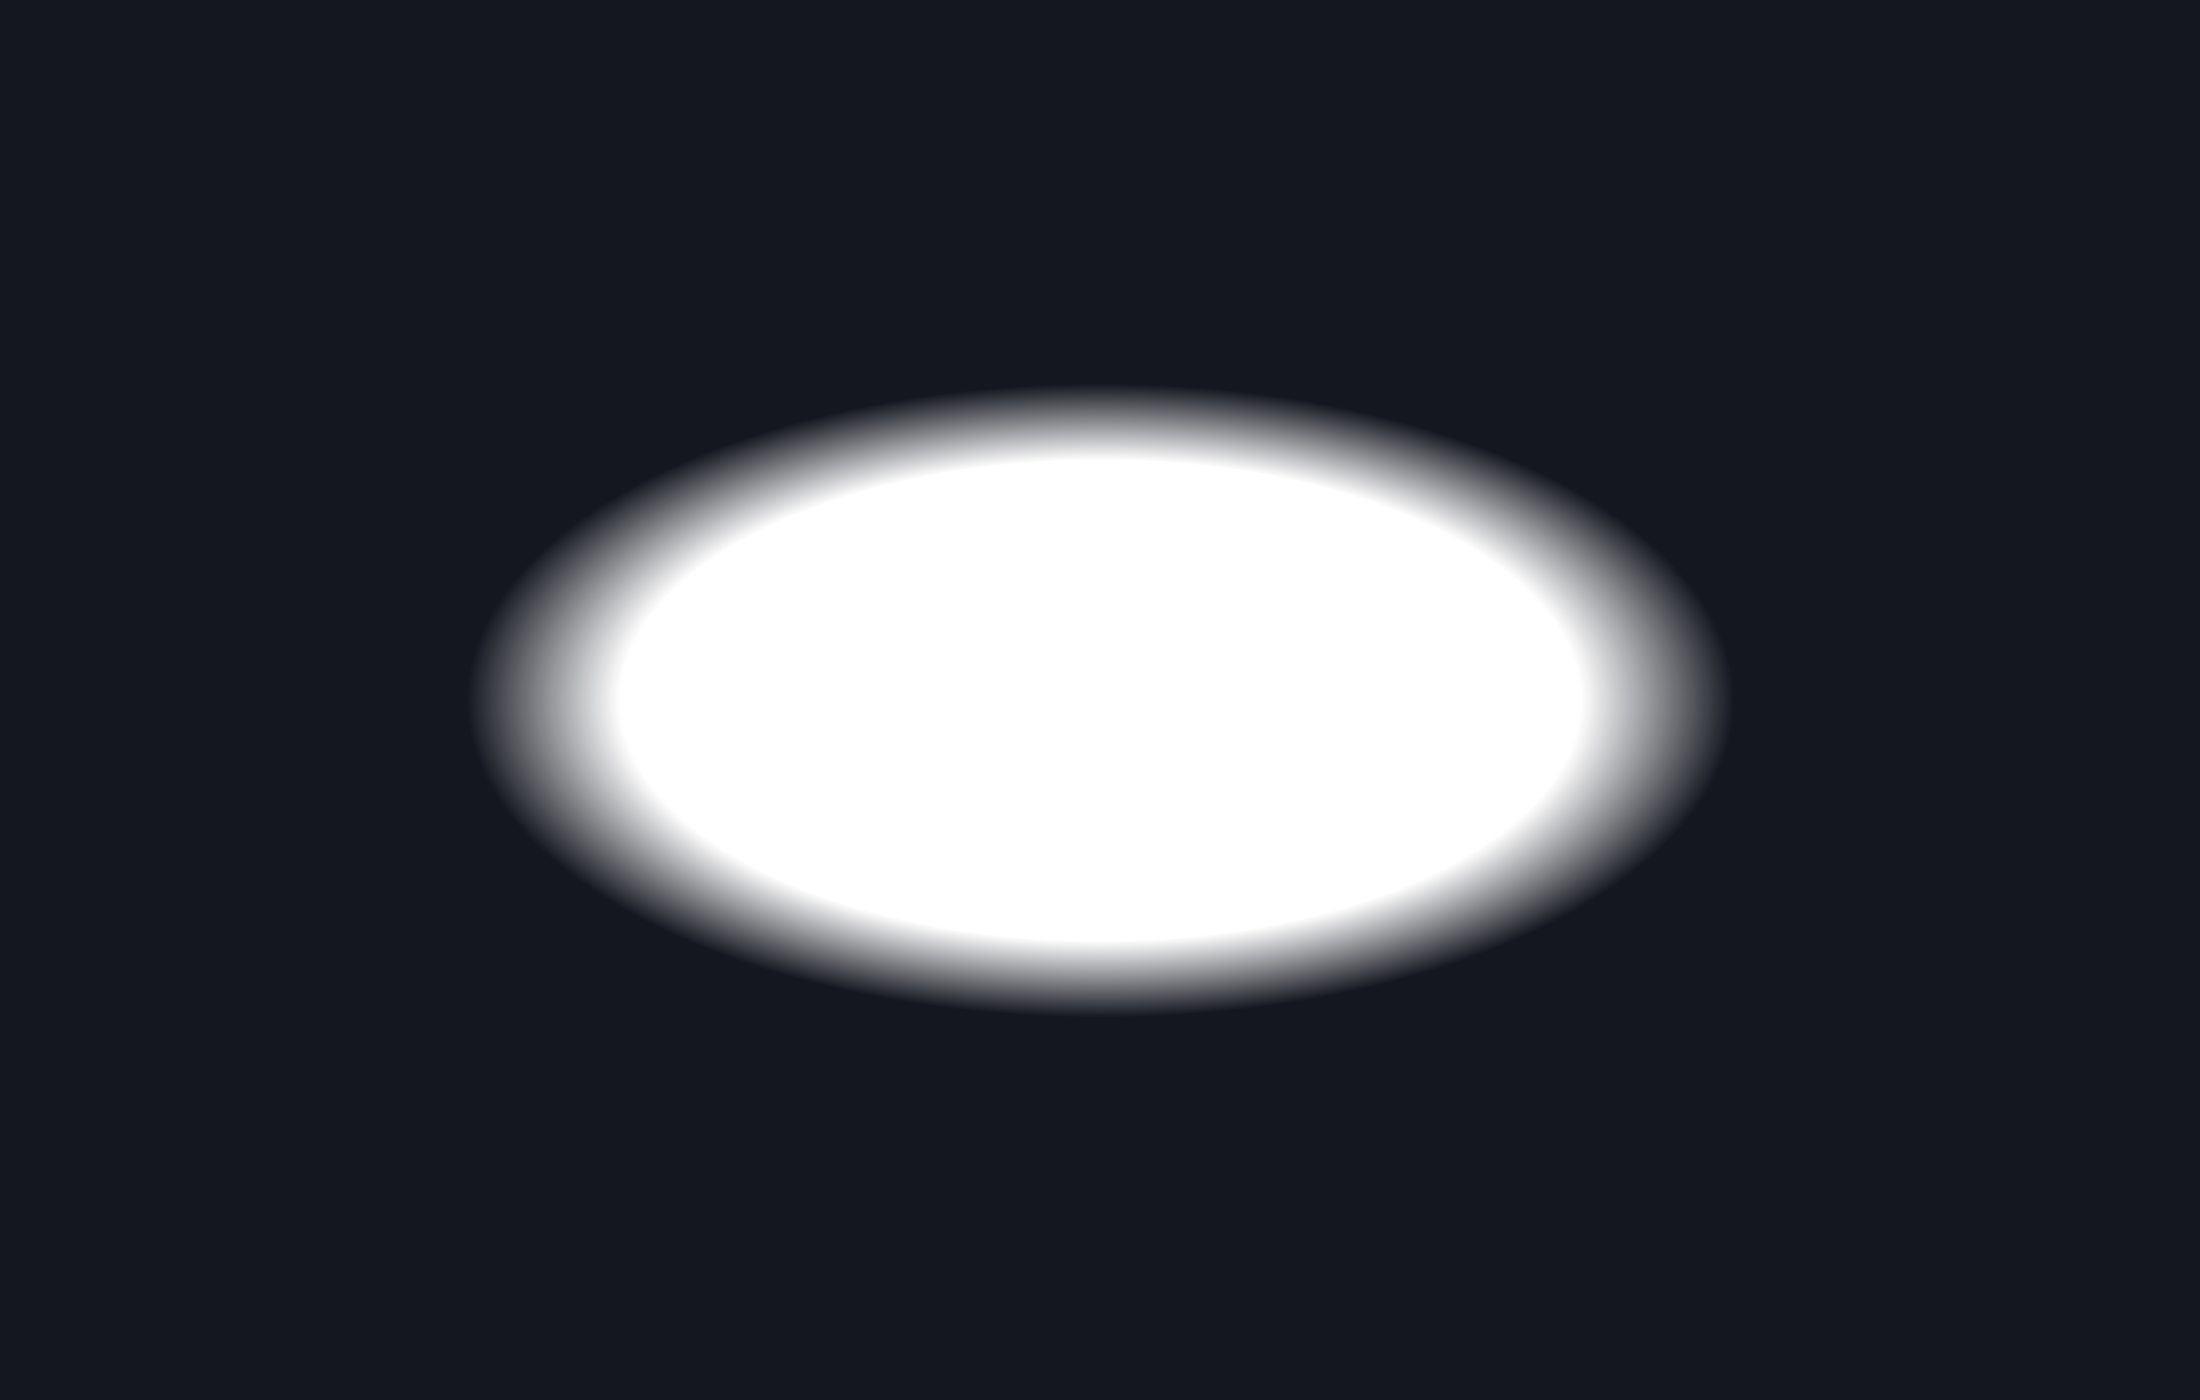
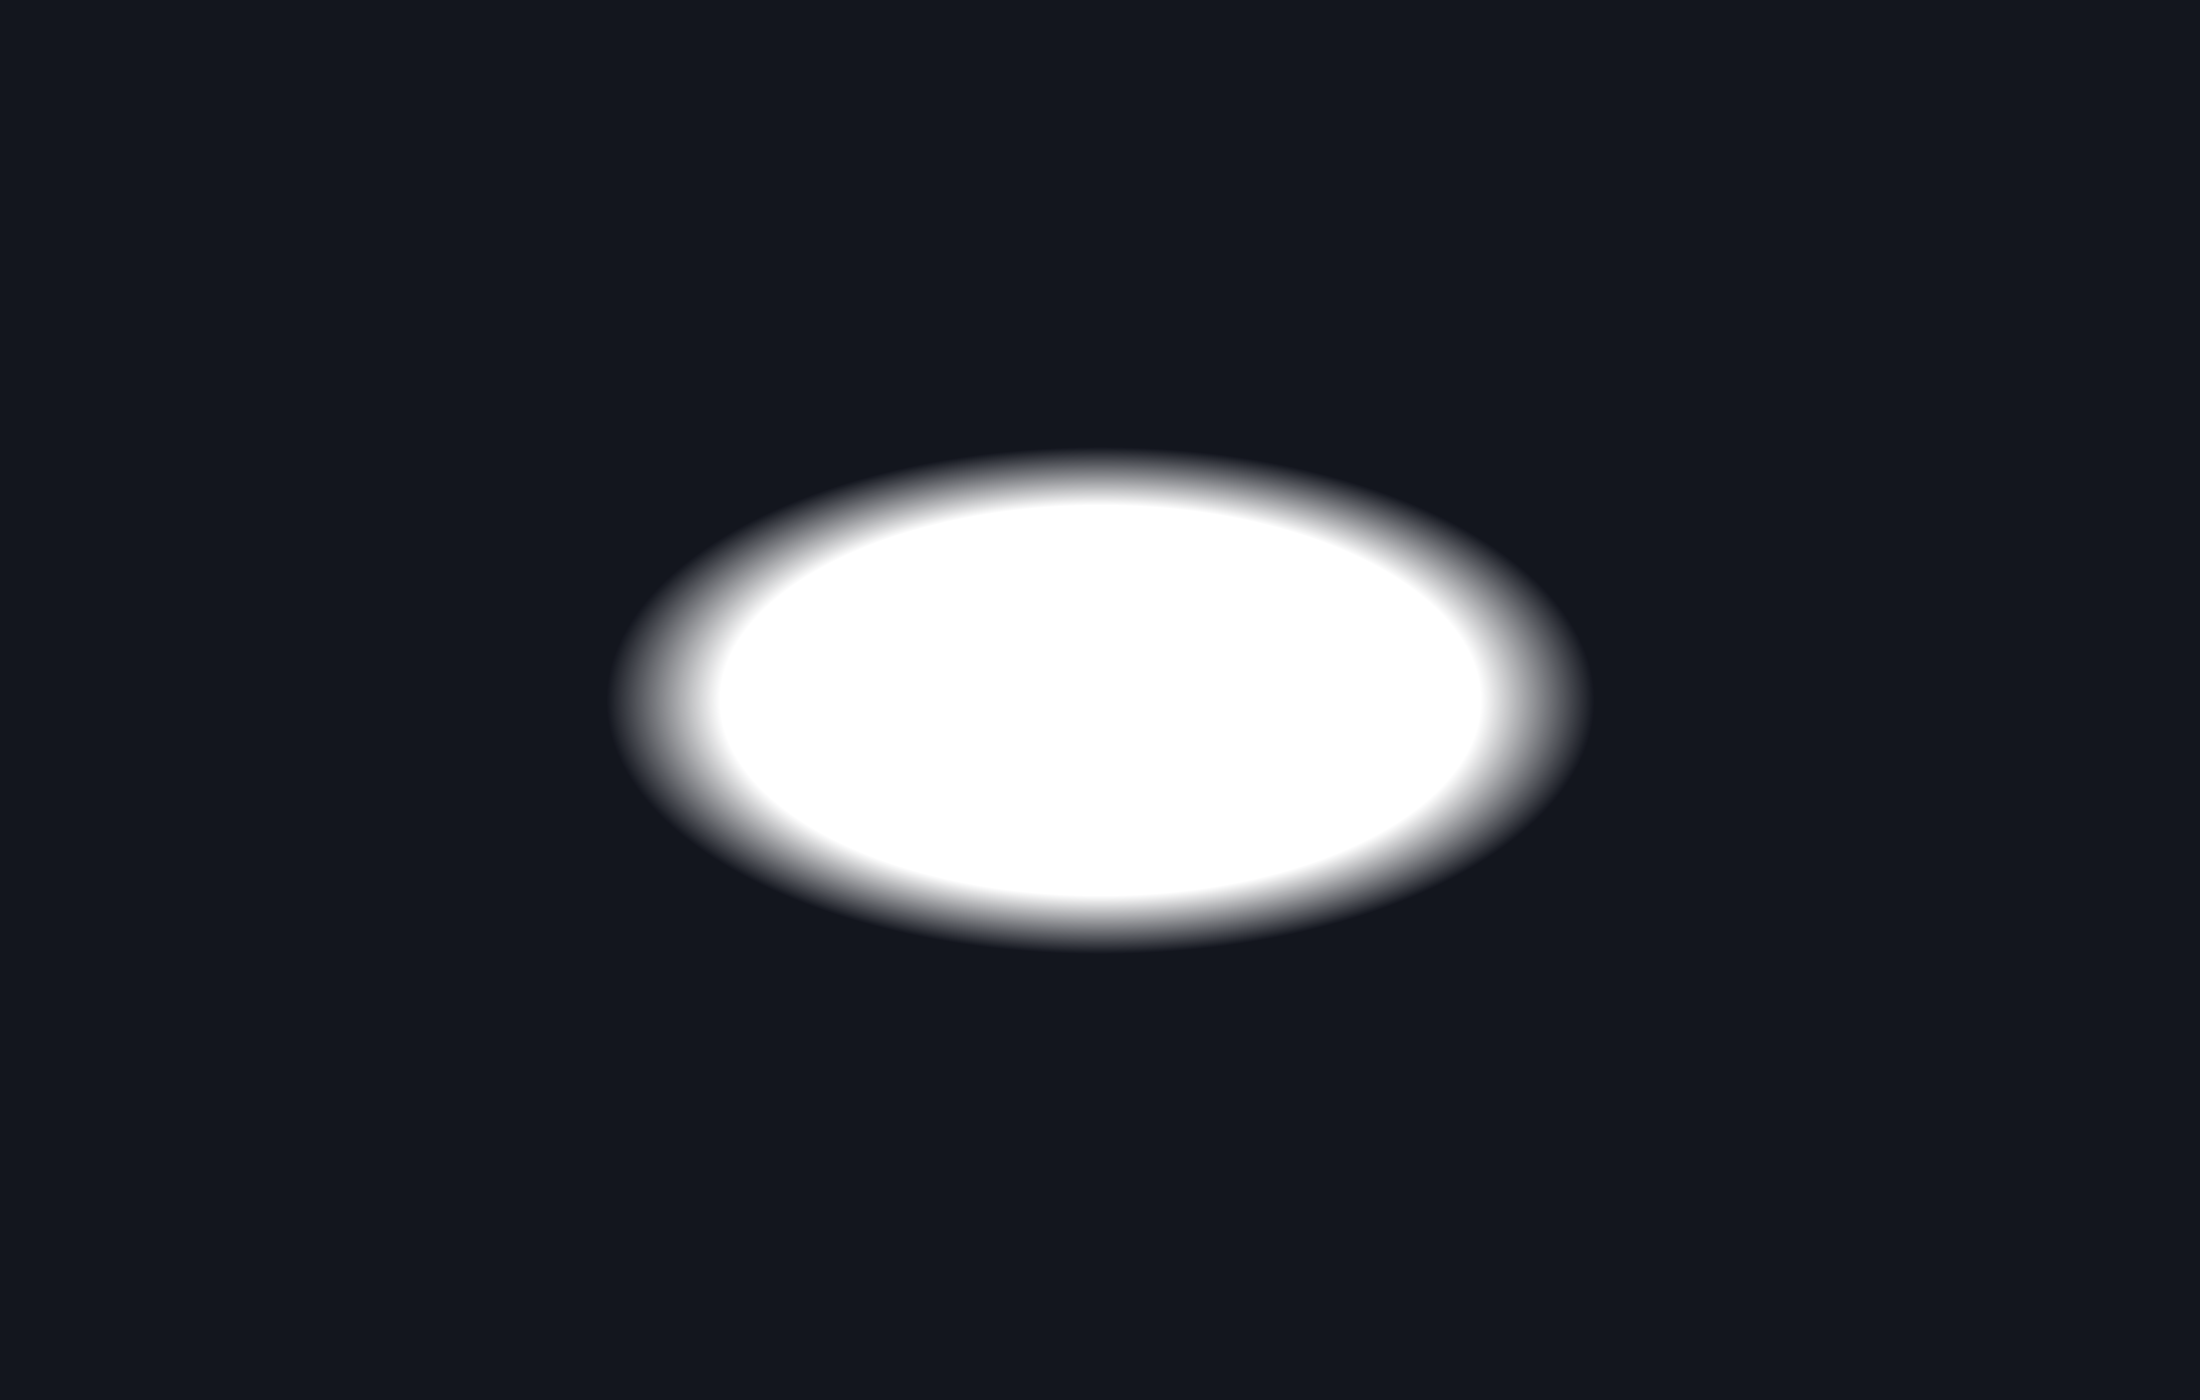
Nebel naeher (kleinerer Klar-Kern); Tempo 154; aktives Gebaeude leuchtet gelb (Glow) statt Kreis, Rahmen-Fallback

Changed region(s): [[0.2164, 0.2764, 0.8036, 0.7371]]

diff --git a/script.js b/script.js
@@ -6,7 +6,7 @@
 
 // Sichtbare Build-Marke: zeigt im Header "v7", sobald DIESE Datei geladen ist.
 // Bleibt im Header "v6" stehen, läuft noch eine alte (gecachte) script.js.
-const BUILD_MARKE = 'v10 – Nebel & Tempo';
+const BUILD_MARKE = 'v11 – Glow & Nebel';
 document.addEventListener('DOMContentLoaded', () => {
   const st = document.querySelector('.subtitle');
   if (st) st.textContent = 'Arbeitslos zum Millionär — ' + BUILD_MARKE;
@@ -5566,6 +5566,7 @@ function zeichneAlleGebaeude(scene, tileW, tileH, offsetX, offsetY) {
 function wendeLayoutAn(scene, layout, tileW, tileH, offsetX, offsetY, feldW, feldH) {
   const fieldLeft = offsetX - feldW / 2, fieldTop = offsetY;
   const orte = {}; ORTE_CONFIG.forEach(o => orte[o.id] = o);
+  scene.gebaeudeSprites = {};   // id → Bild (für Highlight-Glow)
 
   // 1) Trigger-Position (col/row) jedes Gebäudes aus dem Layout neu berechnen
   layout.objects.forEach(o => {
@@ -5598,6 +5599,7 @@ function wendeLayoutAn(scene, layout, tileW, tileH, offsetX, offsetY, feldW, fel
       // Anklickbar (pixelgenau) → Spieler läuft hin und interagiert
       img.setInteractive({ pixelPerfect: true });
       img.on('pointerdown', () => { if (!scene._menuAktiv && !modalOffen) scene.klickAufOrt(o.id); });
+      scene.gebaeudeSprites[o.id] = img;   // für Highlight-Glow
     }
     if (o.type === 'building' && orte[o.id]) {
       scene.add.text(x + w / 2, y + h, orte[o.id].name, {
@@ -6337,7 +6339,7 @@ class SpielSzene extends Phaser.Scene {
     this.pfad = [];               // Lauf-Wegpunkte (Welt {x,y})
     this.pfadZielOrt = null;      // bei Ankunft zu öffnendes Gebäude (nur bei Doppelklick)
     this._walkAcc = 0;
-    this.SPEED = 140;             // Lauftempo in px/Sekunde
+    this.SPEED = 154;             // Lauftempo in px/Sekunde
     this.spielerGfx   = this.add.graphics();
     this.highlightGfx = this.add.graphics().setDepth(90000);   // Interaktions-Ring immer sichtbar
     this.zeichneSpieler(false);
@@ -6926,14 +6928,26 @@ class SpielSzene extends Phaser.Scene {
   }
 
   aktualisiereHighlight() {
-    this.highlightGfx.clear();
     const nah = this.nahesGebaeude();
-    if (nah) {
-      const pos = isoToScreen(nah.col + 0.5, nah.row + 0.5, this.tileW, this.tileH, this.offsetX, this.offsetY);
-      this.highlightGfx.lineStyle(3, 0xe8b84b, 0.9);
-      this.highlightGfx.strokeEllipse(pos.x, pos.y + this.tileH * 0.2, this.tileW * 1.1, this.tileH * 0.65);
-      this.highlightGfx.lineStyle(1, 0xe8b84b, 0.25);
-      this.highlightGfx.strokeEllipse(pos.x, pos.y + this.tileH * 0.2, this.tileW * 1.35, this.tileH * 0.85);
+    const sprite = (nah && this.gebaeudeSprites) ? this.gebaeudeSprites[nah.id] : null;
+
+    // Aktives Gebäude leuchtet gelb auf (WebGL-Glow). Wechselt nur bei Bedarf.
+    if (sprite !== this._glowSprite) {
+      if (this._glowSprite && this._glowSprite.preFX) this._glowSprite.preFX.clear();
+      if (sprite && sprite.preFX) sprite.preFX.addGlow(0xffe87a, 6, 0, false, 0.1, 18);
+      this._glowSprite = sprite || null;
+    }
+
+    // Fallback (kein Sprite [z. B. Park] oder kein WebGL): gelber Rahmen
+    this.highlightGfx.clear();
+    if (nah && (!sprite || !sprite.preFX)) {
+      this.highlightGfx.lineStyle(3, 0xffe87a, 0.95);
+      if (sprite) {
+        this.highlightGfx.strokeRect(sprite.x, sprite.y, sprite.displayWidth, sprite.displayHeight);
+      } else {
+        const pos = isoToScreen(nah.col + 0.5, nah.row + 0.5, this.tileW, this.tileH, this.offsetX, this.offsetY);
+        this.highlightGfx.strokeRect(pos.x - this.tileW * 0.5, pos.y - this.tileH * 1.3, this.tileW, this.tileH * 1.7);
+      }
     }
   }
 
